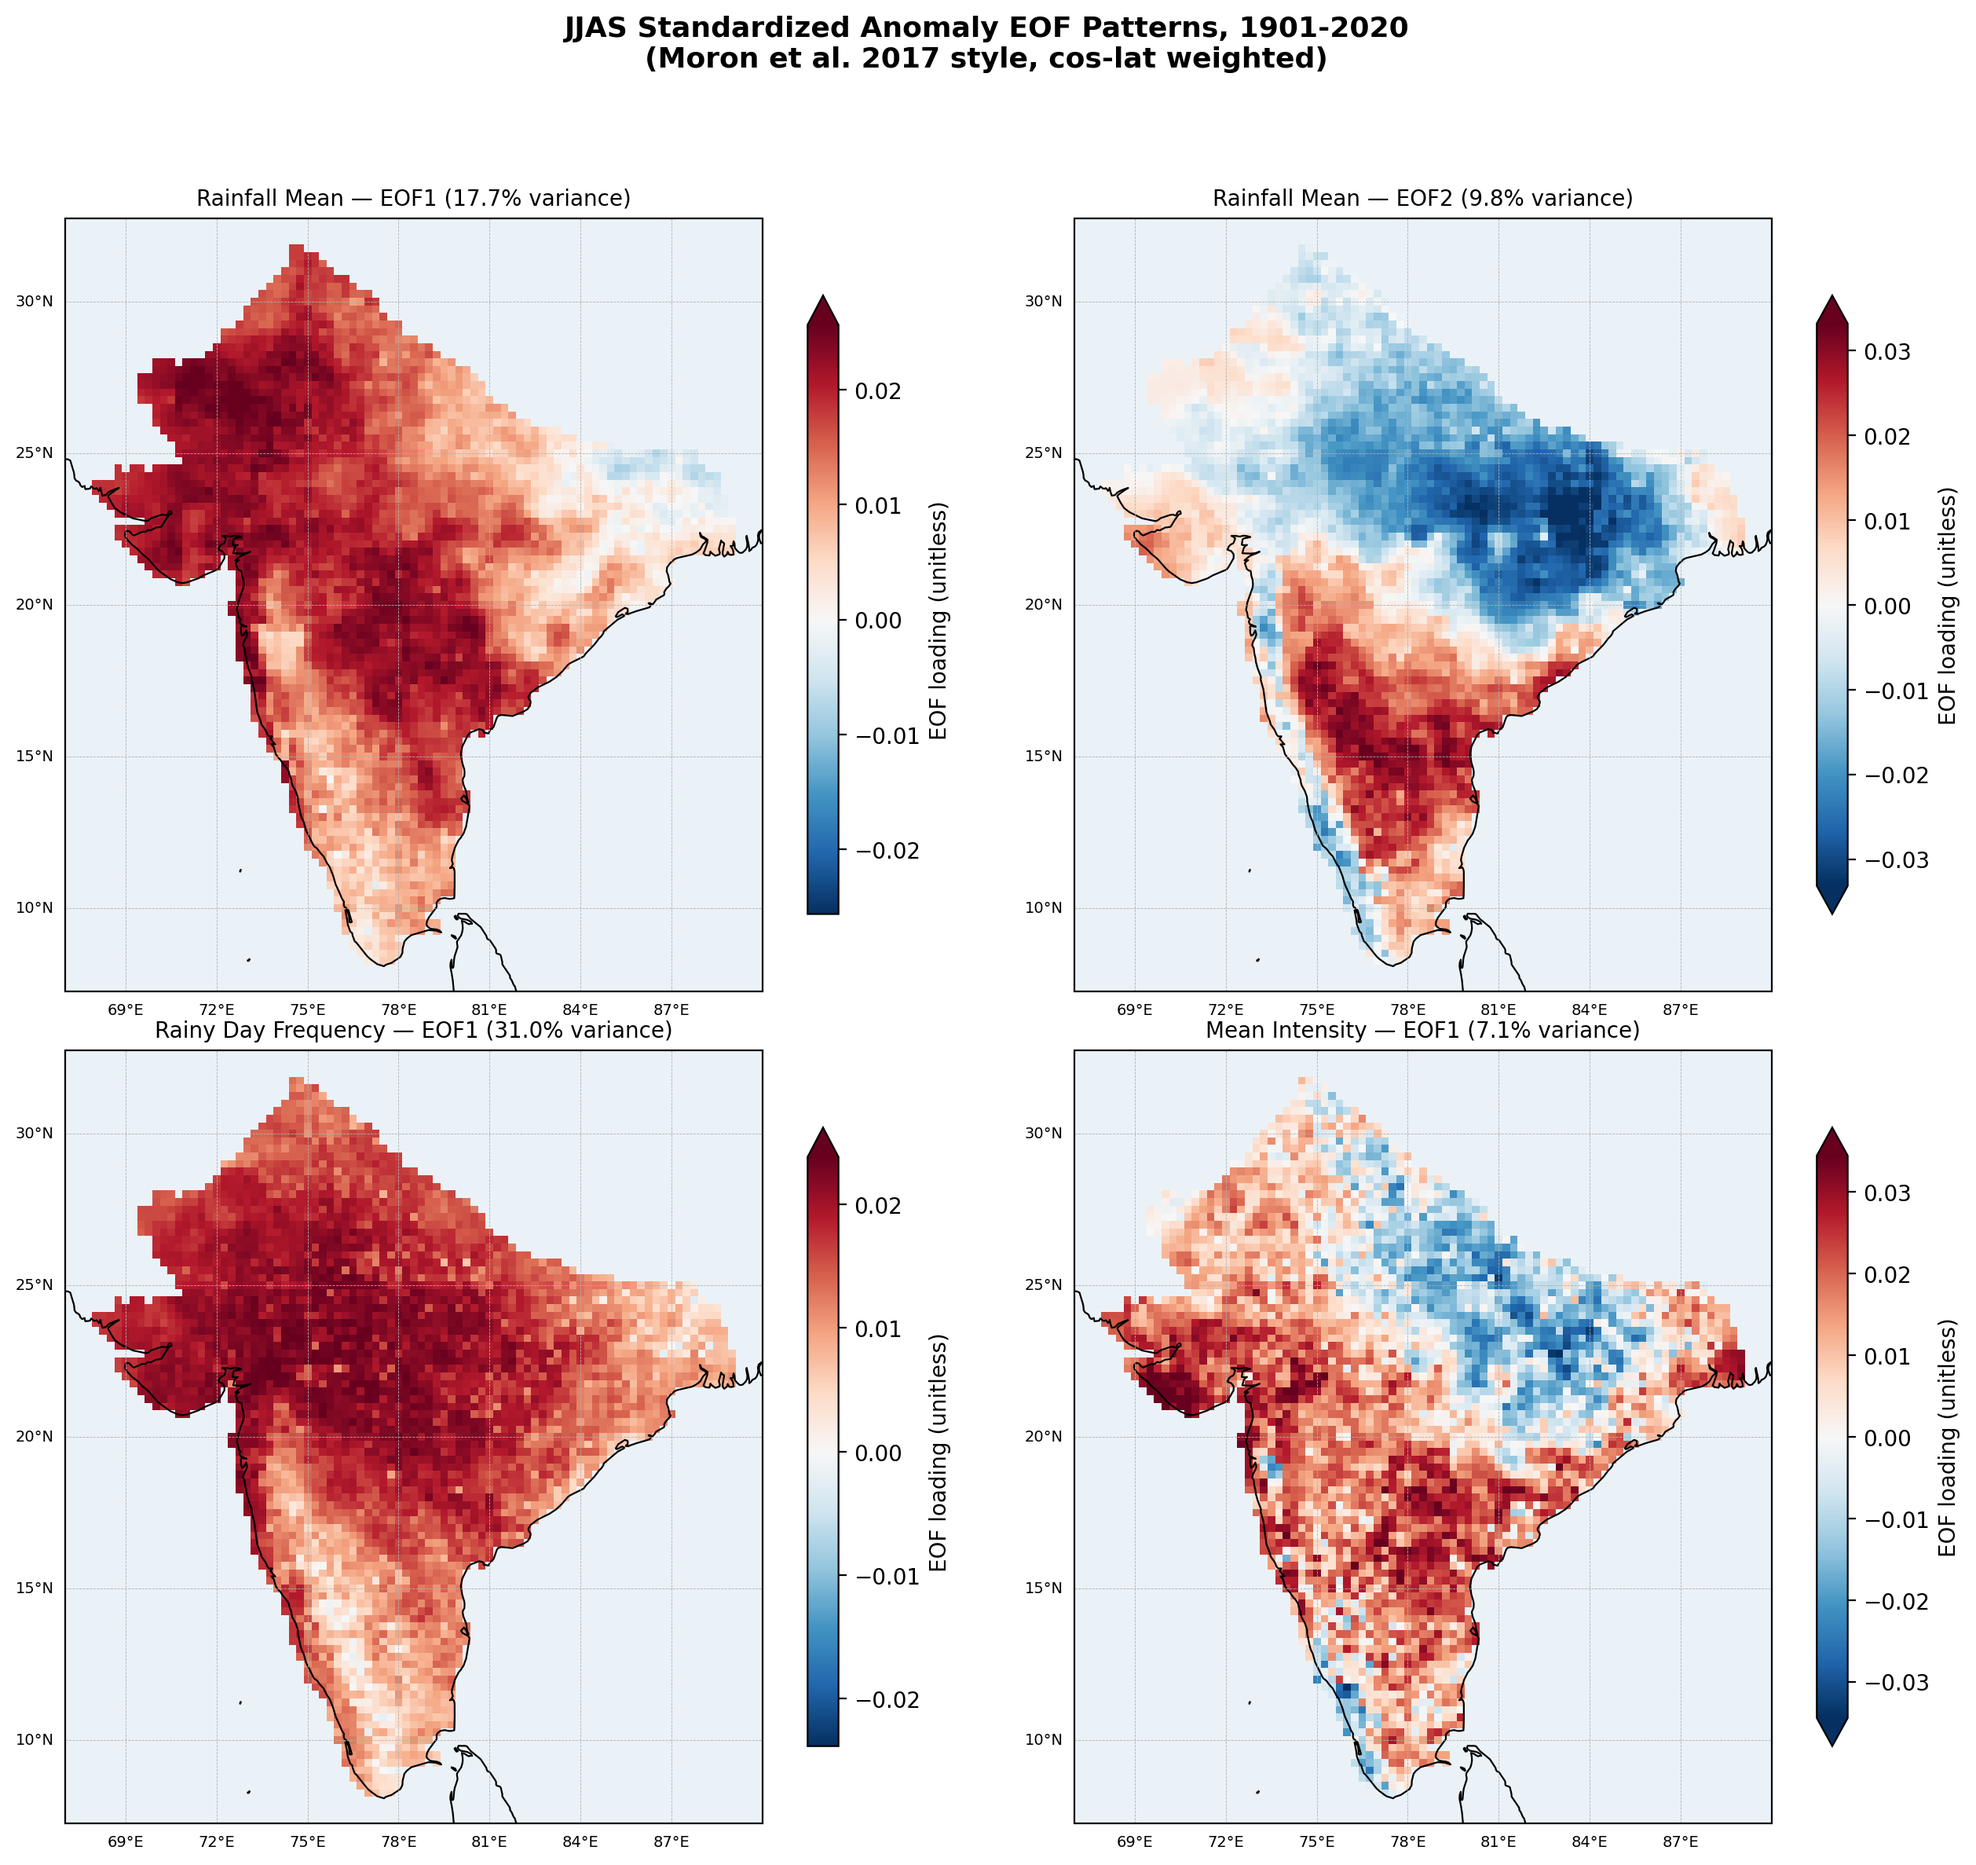
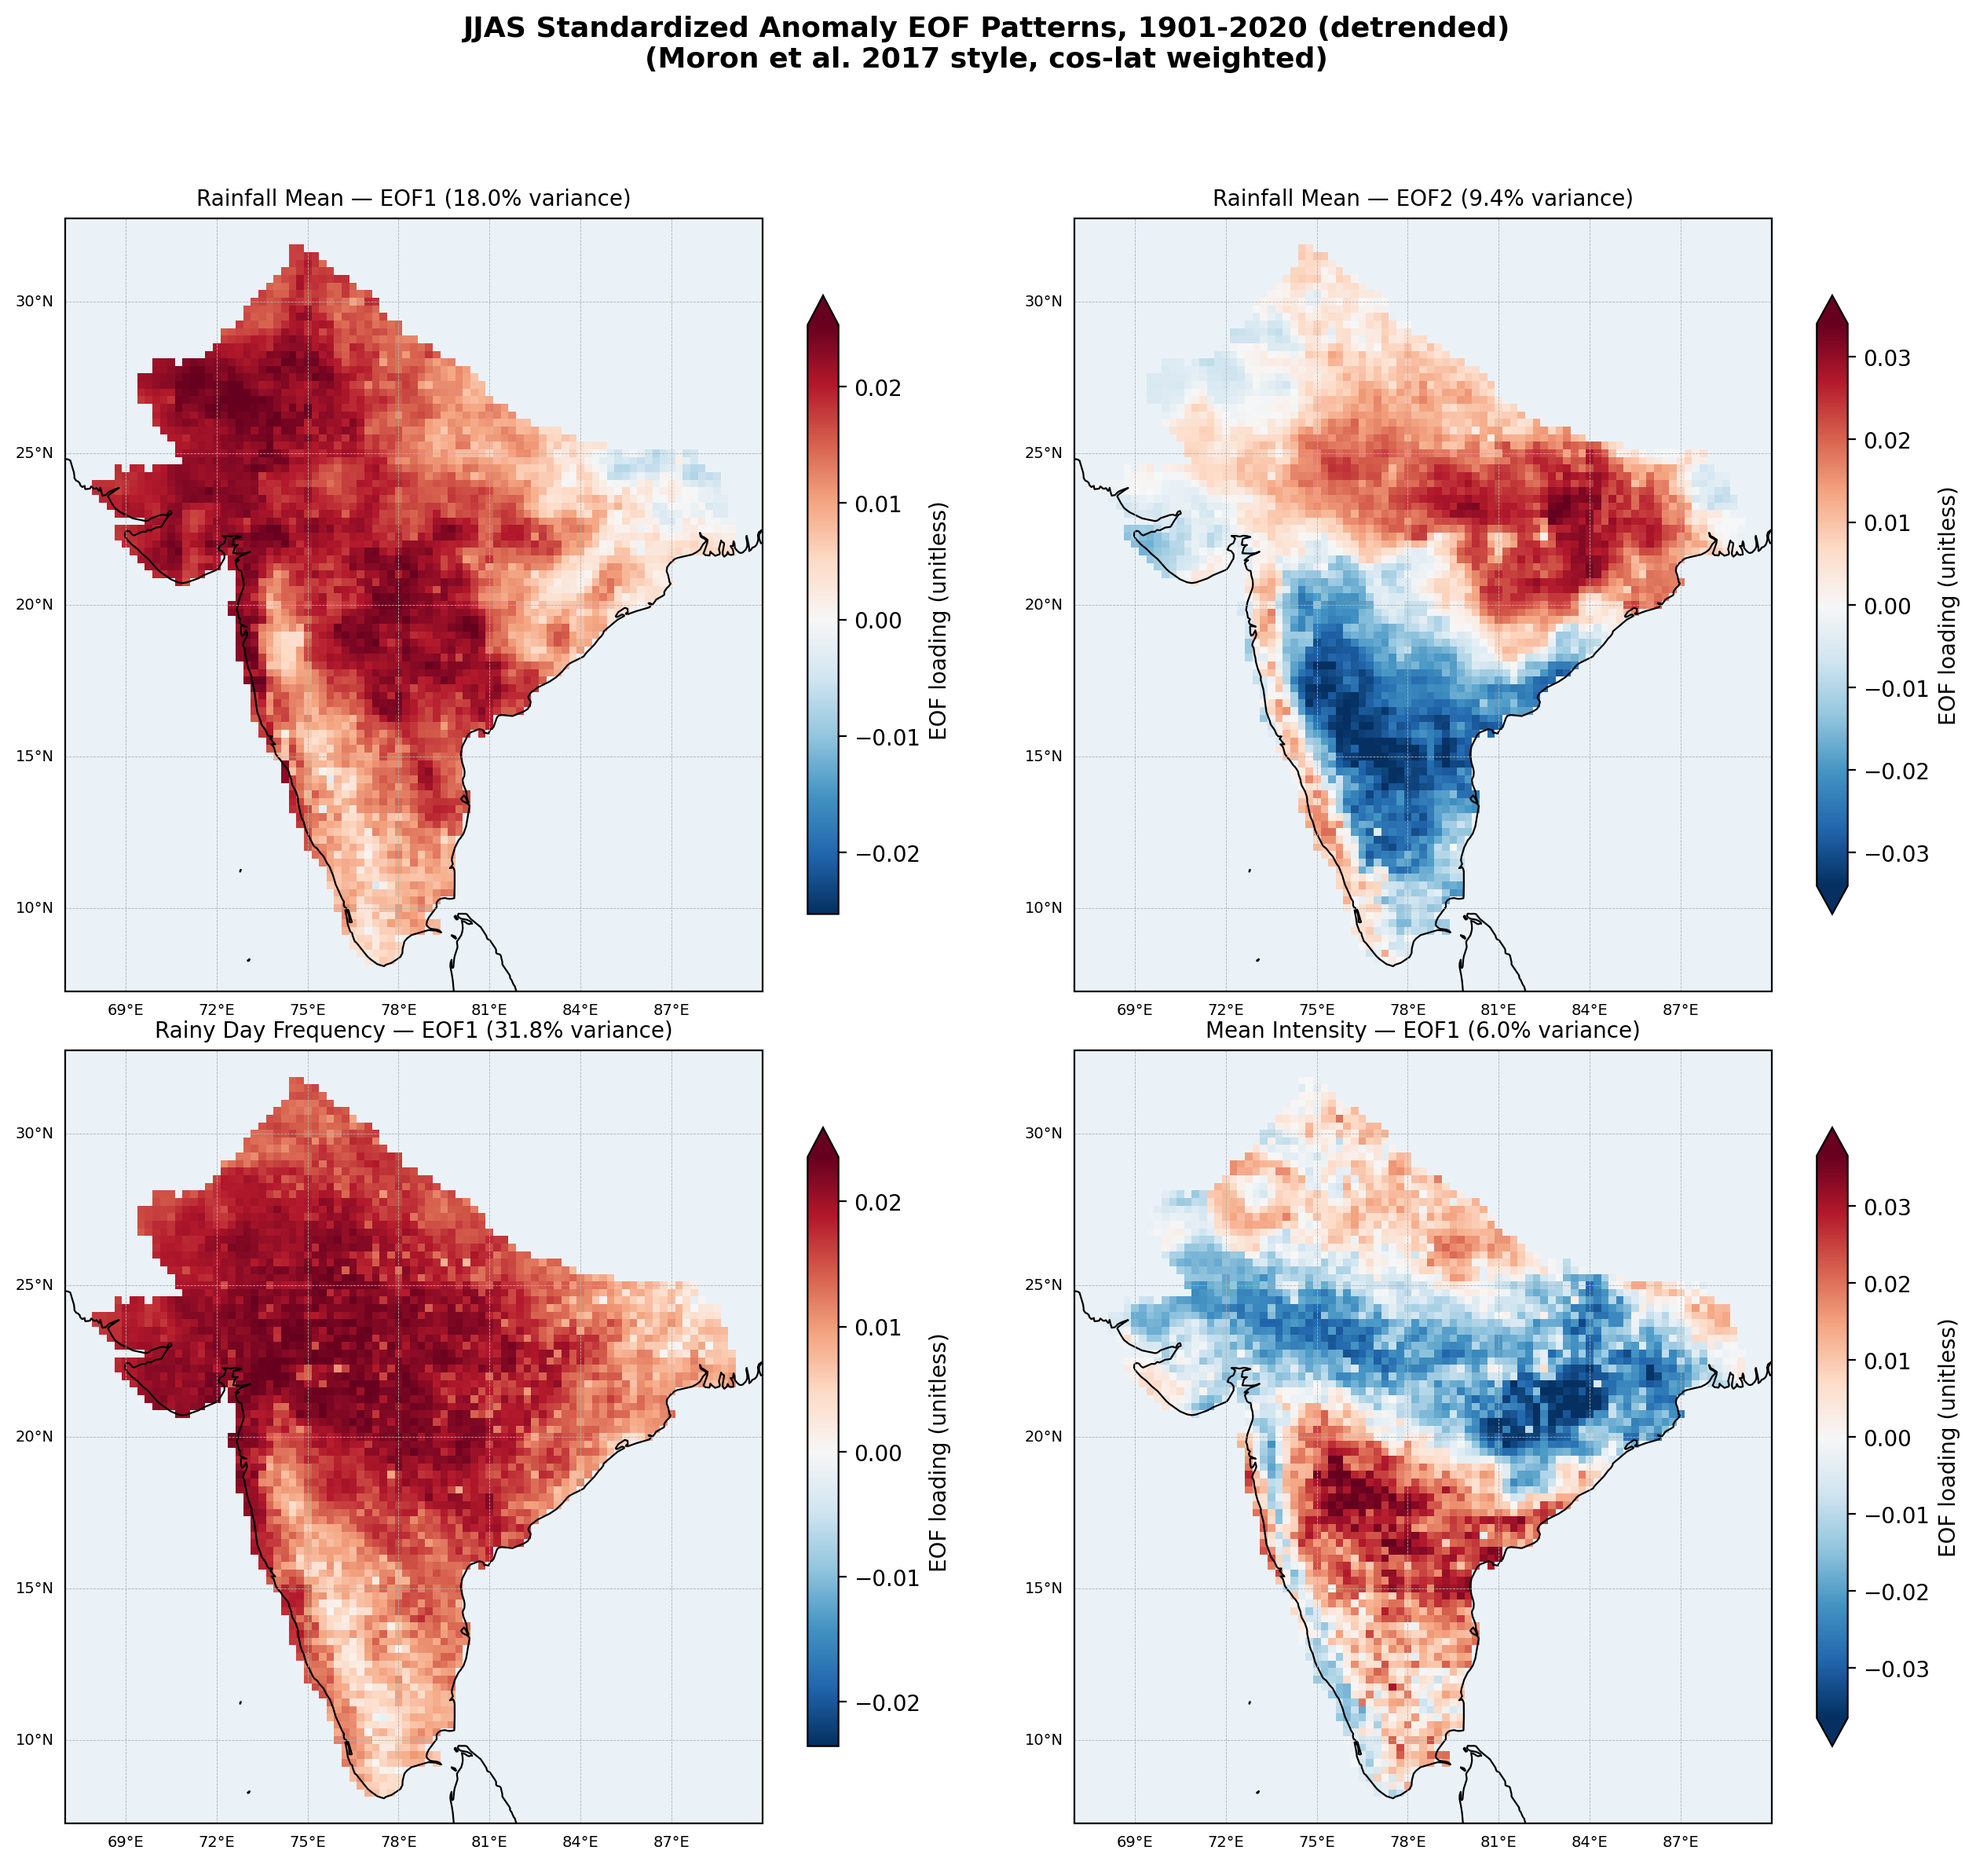
Detrend before EOF analysis, matching the source paper's methodology
compute_moron_eof_analysis.py and plot_eof_comparison.py now linearly detrend
each grid point's 1901-2020 series before standardizing and running EOF,
matching the detrending already applied for compute_airi_correlation_matrix.py.
PC1 sign convention now anchors against AIRI's detrended index instead of raw.

Had to fill NaN before calling scipy.signal.detrend and re-mask after:
detrend solves one batched least-squares fit across every grid point at once,
so a NaN anywhere fails the whole call, not just that column.

Most notable result change: mean-intensity's EOF1 correlation with AIRI drops
from 0.26 (raw) to 0.05 (detrended) - most of that original correlation was
apparently the shared long-term trend (the intensification signal both series
show), not real year-to-year covariability. Rainfall-mean and rainy-day-
frequency EOF1 are barely affected (r=0.95->0.96, 0.91->0.93), consistent with
those measures already being dominated by interannual rather than trend
variability.

diff --git a/compute_moron_eof_analysis.py b/compute_moron_eof_analysis.py
@@ -5,20 +5,25 @@ on rainy days. Extracts and plots the first two modes (EOF1/PC1, EOF2/PC2)
 for each field.
 
 Field definitions match compute_airi_indices.py exactly (same per-gridpoint,
-per-year quantities, same >1mm/day rainy-day threshold), just standardized
-per grid point instead of spatially averaged into a single index:
-    standardized(year, lat, lon) = (value - climatological mean) / climatological std
-computed separately at each grid point across the 1901-2020 record.
+per-year quantities, same >1mm/day rainy-day threshold). Each grid point's
+1901-2020 series is linearly detrended (least-squares trend removed) before
+standardizing, matching the source paper's stated methodology (same
+detrending already applied for compute_airi_correlation_matrix.py):
+    detrended(year, lat, lon) = value(year, lat, lon) - linear_trend(year, lat, lon)
+    standardized(year, lat, lon) = (detrended - its mean) / its std
+computed separately at each grid point across the record (the mean after
+detrending is ~0 by construction, kept explicit for clarity).
 
 EOF decomposition uses cos(latitude) area weighting and fills the invalid
 (non-India) domain with 0 before solving, matching the convention in the
 companion enso-sst-analysis project's eofAnalysis_fixed.py.
 
 PC1's sign for each variable is flipped, if needed, so it correlates
-positively with AIRI's raw anomaly index (data/indices/airi_indices.csv) -
-EOF sign is mathematically arbitrary, so this just fixes the physically
-intuitive convention (positive PC1 = wetter/more frequent/more intense than
-normal). EOF2 has no equally natural anchor, so its raw solver sign is kept.
+positively with AIRI's detrended raw-anomaly index
+(data/indices/airi_indices.csv, airi_raw_anomaly_mm_day_detrended) - EOF sign
+is mathematically arbitrary, so this just fixes the physically intuitive
+convention (positive PC1 = wetter/more frequent/more intense than normal).
+EOF2 has no equally natural anchor, so its raw solver sign is kept.
 """
 import ssl
 import certifi
@@ -32,6 +37,7 @@ import matplotlib.gridspec as gridspec
 import cartopy.crs as ccrs
 import cartopy.feature as cfeature
 from eofs.xarray import Eof
+from scipy.signal import detrend as scipy_detrend
 
 # This machine's Windows certificate store has a cert ssl.create_default_context()
 # can't parse. That breaks dask's scheduler-detection (triggered here when the EOF
@@ -64,9 +70,16 @@ intensity_per_gridpoint = jjas.where(rainy_mask).groupby('time.year').mean('time
 
 
 def standardize(field):
-    clim_mean = field.mean('year', skipna=True)
-    clim_std = field.std('year', ddof=1, skipna=True)
-    return (field - clim_mean) / clim_std
+    # scipy.signal.detrend solves a single batched least-squares fit across
+    # every (lat,lon) column at once - a NaN anywhere fails the whole batch,
+    # not just that column. Fill NaN cells with a placeholder to detrend
+    # (their output is meaningless but gets discarded next), then restore NaN
+    # outside India so climatological mean/std below stay correct.
+    detrended_vals = scipy_detrend(field.fillna(0).values, axis=0, type='linear')
+    detrended = xr.DataArray(detrended_vals, dims=field.dims, coords=field.coords).where(valid)
+    clim_mean = detrended.mean('year', skipna=True)
+    clim_std = detrended.std('year', ddof=1, skipna=True)
+    return (detrended - clim_mean) / clim_std
 
 
 FIELDS = {
@@ -75,7 +88,7 @@ FIELDS = {
     'mean_intensity': ('Mean Rainfall Intensity', standardize(intensity_per_gridpoint)),
 }
 
-airi = pd.read_csv('data/indices/airi_indices.csv').set_index('year')['airi_raw_anomaly_mm_day']
+airi = pd.read_csv('data/indices/airi_indices.csv').set_index('year')['airi_raw_anomaly_mm_day_detrended']
 
 lat_vals = ds.lat.values
 lon_vals = ds.lon.values
@@ -137,7 +150,7 @@ def render(varname, label, field):
         ax_ts.grid(True, alpha=0.3)
 
     fig.suptitle(
-        f'EOF Analysis: JJAS Standardized {label} Anomalies, 1901-2020\n'
+        f'EOF Analysis: JJAS Standardized {label} Anomalies, 1901-2020 (detrended)\n'
         f'(cos-lat weighted, {RAINY_DAY_THRESHOLD}mm/day rainy-day threshold where applicable)',
         fontsize=12, fontweight='bold',
     )

diff --git a/plot_eof_comparison.py b/plot_eof_comparison.py
@@ -3,7 +3,8 @@ Side-by-side comparison of 4 EOF spatial patterns from the Moron et al. (2017)
 style analysis in compute_moron_eof_analysis.py: rainfall mean EOF1 and EOF2,
 plus rainy-day-frequency EOF1 and mean-intensity EOF1 (their dominant modes).
 
-Recomputes the same standardized fields and EOF solves as
+Recomputes the same standardized (linearly detrended per grid point, then
+standardized - see compute_moron_eof_analysis.py) fields and EOF solves as
 compute_moron_eof_analysis.py (see that script for full methodology notes) -
 this one just lays out a specific subset of spatial patterns together for
 direct visual comparison, without the PC time series panels.
@@ -19,6 +20,7 @@ import matplotlib.pyplot as plt
 import cartopy.crs as ccrs
 import cartopy.feature as cfeature
 from eofs.xarray import Eof
+from scipy.signal import detrend as scipy_detrend
 
 _orig_create_default_context = ssl.create_default_context
 
@@ -46,9 +48,16 @@ intensity_per_gridpoint = jjas.where(rainy_mask).groupby('time.year').mean('time
 
 
 def standardize(field):
-    clim_mean = field.mean('year', skipna=True)
-    clim_std = field.std('year', ddof=1, skipna=True)
-    return (field - clim_mean) / clim_std
+    # scipy.signal.detrend solves a single batched least-squares fit across
+    # every (lat,lon) column at once - a NaN anywhere fails the whole batch,
+    # not just that column. Fill NaN cells with a placeholder to detrend
+    # (their output is meaningless but gets discarded next), then restore NaN
+    # outside India so climatological mean/std below stay correct.
+    detrended_vals = scipy_detrend(field.fillna(0).values, axis=0, type='linear')
+    detrended = xr.DataArray(detrended_vals, dims=field.dims, coords=field.coords).where(valid)
+    clim_mean = detrended.mean('year', skipna=True)
+    clim_std = detrended.std('year', ddof=1, skipna=True)
+    return (detrended - clim_mean) / clim_std
 
 
 FIELDS = {
@@ -57,7 +66,7 @@ FIELDS = {
     'mean_intensity': standardize(intensity_per_gridpoint),
 }
 
-airi = pd.read_csv('data/indices/airi_indices.csv').set_index('year')['airi_raw_anomaly_mm_day']
+airi = pd.read_csv('data/indices/airi_indices.csv').set_index('year')['airi_raw_anomaly_mm_day_detrended']
 
 lat_vals = ds.lat.values
 lon_vals = ds.lon.values
@@ -110,7 +119,7 @@ for ax, (eof_data, var, title) in zip(axes.flat, panels):
     ax.set_title(f'{title} ({var * 100:.1f}% variance)', fontsize=10)
 
 fig.suptitle(
-    'JJAS Standardized Anomaly EOF Patterns, 1901-2020\n(Moron et al. 2017 style, cos-lat weighted)',
+    'JJAS Standardized Anomaly EOF Patterns, 1901-2020 (detrended)\n(Moron et al. 2017 style, cos-lat weighted)',
     fontsize=13, fontweight='bold',
 )
 plt.tight_layout(rect=[0, 0, 1, 0.94])

diff --git a/README.md b/README.md
@@ -65,13 +65,16 @@ large for GitHub. Only code, figures, and documentation are tracked.
   threshold choice, spatial mask artifacts) before picking this back up.
 - `compute_moron_eof_analysis.py` — EOF analysis (Moron et al. 2017 style) of JJAS standardized
   anomalies for rainfall mean, rainy-day frequency, and mean intensity (same per-gridpoint definitions
-  as `compute_airi_indices.py`, standardized per grid point instead of spatially averaged). cos(lat)-
-  weighted, matching the companion enso-sst-analysis project's EOF convention. Outputs one 4-panel
-  figure per variable (EOF1/PC1, EOF2/PC2) — `figures/eof_rainfall_mean.png`,
-  `figures/eof_rainy_day_frequency.png`, `figures/eof_mean_intensity.png`. PC1 sign is fixed (if needed)
-  to correlate positively with AIRI. Rainfall-mean and rainy-day-frequency EOF1 explain 17.7%/31.0% of
-  variance and correlate strongly with AIRI (r=0.95/0.91) — mean intensity's EOF1 explains far less
-  (7.1%) and correlates weakly (r=0.26), consistent with the correlation matrix above.
+  as `compute_airi_indices.py`, each grid point linearly detrended then standardized instead of
+  spatially averaged - matches the source paper's stated methodology, same as
+  `compute_airi_correlation_matrix.py`). cos(lat)-weighted, matching the companion enso-sst-analysis
+  project's EOF convention. Outputs one 4-panel figure per variable (EOF1/PC1, EOF2/PC2) —
+  `figures/eof_rainfall_mean.png`, `figures/eof_rainy_day_frequency.png`,
+  `figures/eof_mean_intensity.png`. PC1 sign is fixed (if needed) to correlate positively with AIRI's
+  detrended index. Rainfall-mean and rainy-day-frequency EOF1 explain 18.0%/31.8% of variance and
+  correlate strongly with AIRI (r=0.96/0.93) — mean intensity's EOF1 explains far less (6.0%) and is
+  now essentially uncorrelated with AIRI once detrended (r=0.05, down from 0.26 raw) — most of that
+  original correlation was apparently the shared long-term trend, not real year-to-year covariability.
 - `plot_eof_comparison.py` — the 4 headline spatial patterns from the above (rainfall mean EOF1+EOF2,
   rainy-day-frequency EOF1, mean-intensity EOF1) laid out together in one figure
   (`figures/eof_comparison.png`), maps only (no PC time series). Recomputes the same EOFs rather than

diff --git a/CLAUDE.md b/CLAUDE.md
@@ -38,11 +38,15 @@ Two datasets on hand:
   a `_detrended` counterpart column (linear 1901-2020 trend removed); `compute_airi_correlation_matrix.py`
   always correlates the detrended versions, matching the source paper's methodology.
 
-`compute_moron_eof_analysis.py` runs EOF decomposition (cos-lat weighted, via the `eofs` library, same
-convention as the companion enso-sst-analysis project) on standardized (per-gridpoint) versions of the
-same three fields underlying measures 3/4 of the AIRI CSV (rainfall mean, rainy-day frequency, mean
-intensity), extracting EOF1/PC1 and EOF2/PC2 for each. Needs `data/indices/airi_indices.csv` to exist
-first (used only to fix PC1's sign convention against AIRI).
+`compute_moron_eof_analysis.py` (and `plot_eof_comparison.py`, which recomputes the same fields for a
+subset comparison figure) run EOF decomposition (cos-lat weighted, via the `eofs` library, same
+convention as the companion enso-sst-analysis project) on detrended-then-standardized (per-gridpoint)
+versions of the same three fields underlying measures 3/4 of the AIRI CSV (rainfall mean, rainy-day
+frequency, mean intensity), extracting EOF1/PC1 and EOF2/PC2 for each. Needs
+`data/indices/airi_indices.csv` to exist first (used only to fix PC1's sign convention against AIRI's
+detrended index). Note `scipy.signal.detrend` solves one batched least-squares fit across every grid
+point at once - a NaN anywhere fails the whole call, not just that column - so NaN cells must be
+filled before detrending and re-masked after, not left as NaN going in.
 
 Still needed: a 120-year SST dataset (for ENSO/IOD index computation), and the ENSO/IOD index time
 series themselves (not yet derived).
